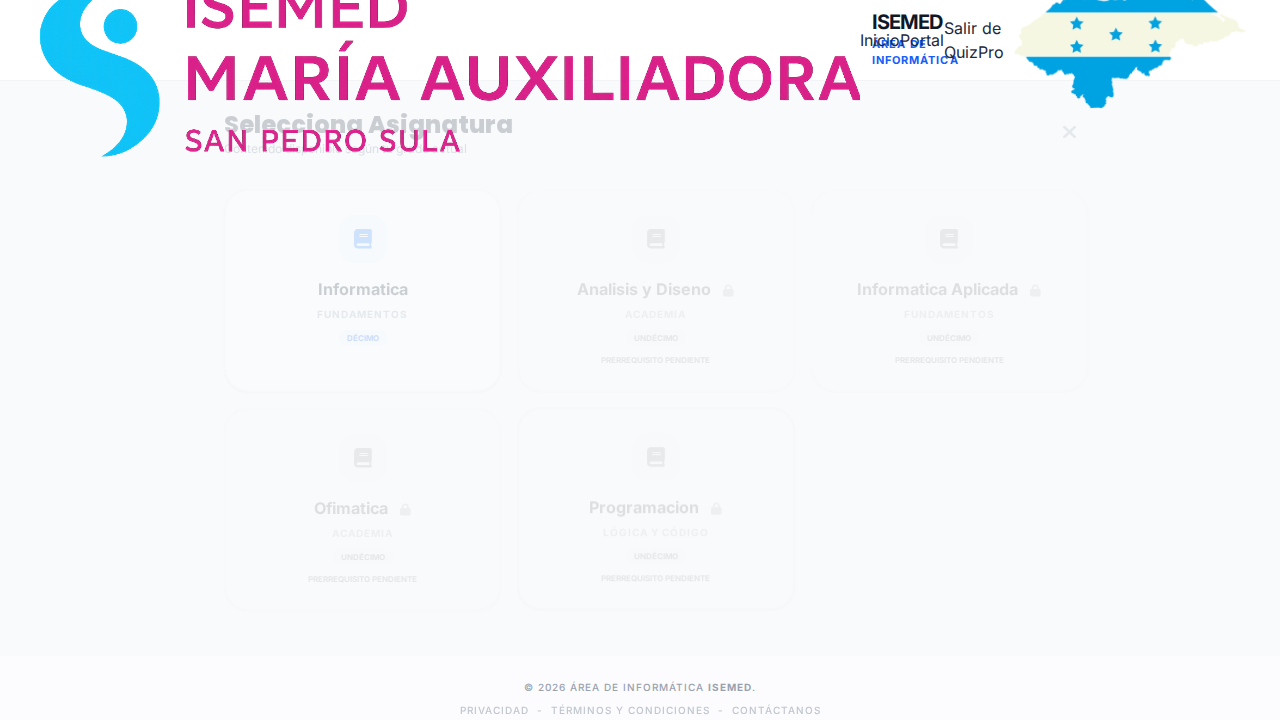
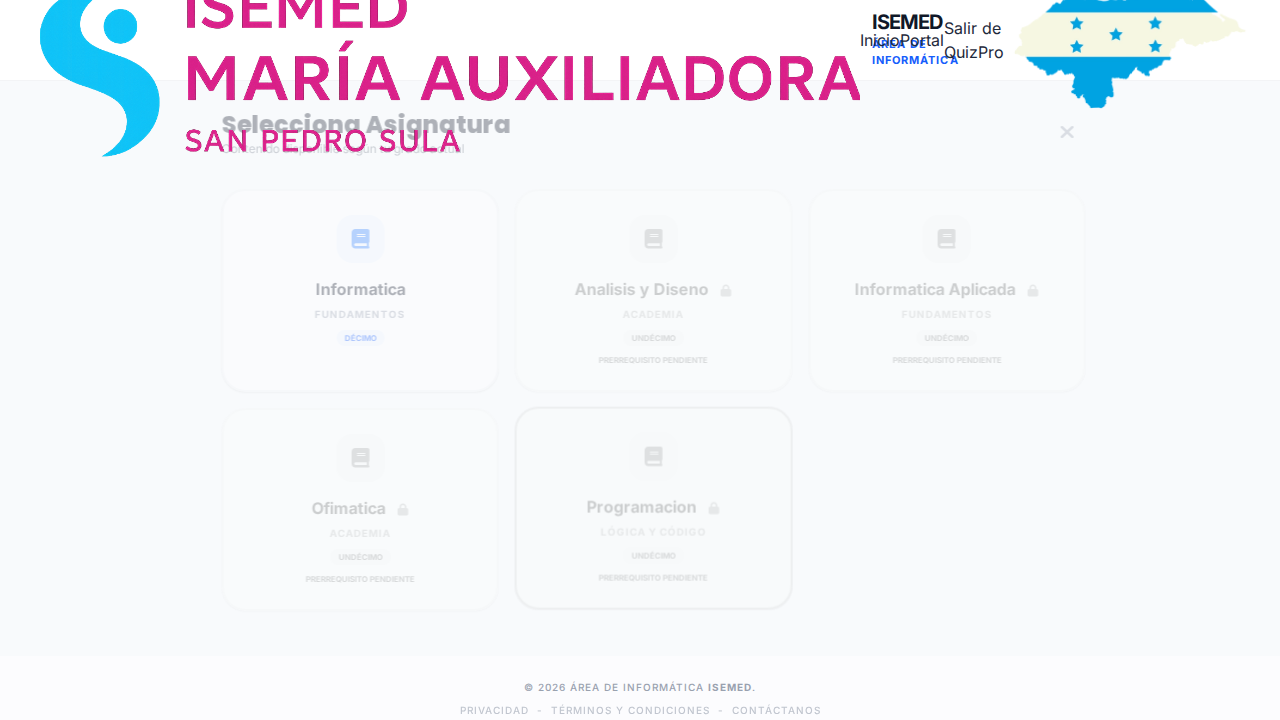
Finalize QuizPro refactor: screen-based nav, strict prerequisites, and Full Space Mode.
- Updated microservice URLs in config.js.
- Fixed "No hay preguntas" bug in QuizPro via normalization and relative path fixes.
- Implemented Full Space Mode in index.html (hiding Hero, News, etc. during games).
- Enforced strict same-subject cross-grade prerequisite matrix.
- Made transcription evaluation case-sensitive for spelling validation.
- Enhanced backend to persist achievement levels and independent high scores.

diff --git a/js/quizpro.js b/js/quizpro.js
@@ -17,7 +17,7 @@ let incorrectAnswers = [];
 const SEEN_QUESTIONS_KEY = 'quizpro_seen_questions';
 const SEEN_LIMIT = 200;
 
-let userGameStats = {}; // Cache de logros para validación de bloqueos
+window.userGameStats = {}; // Cache de logros para validación de bloqueos
 
 window.initQuizPro = function() {
     loadPerformanceTable();
@@ -125,26 +125,43 @@ window.navigateToSubjects = function() {
 };
 
 /**
- * REQ 3.A: Validación Cross-Grade
- * 11vo requiere 10mo aprobado. 12vo requiere 11vo aprobado.
+ * REQ 3.A: Validación Cross-Grade (Matriz Estricta con Fallback)
+ * 11vo requiere 10mo de la MISMA materia. Si no existe en 10mo, requiere 'Informatica' de 10mo.
  */
 function checkCrossGradeLock(subjectName, targetGrade) {
     const targetGradeNum = parseGrade(targetGrade);
-    if (targetGradeNum <= 10) return false; // 10mo siempre abierto
+    if (targetGradeNum <= 10) return false;
 
     const prevGradeNum = targetGradeNum - 1;
+    const statsArray = Object.values(window.userGameStats);
+    const normTarget = normalizeSubject(subjectName);
 
-    // REQ: El alumno debe haber aprobado al menos UNA materia del grado anterior
-    // para desbloquear el nivel actual (Concepto de Promoción de Grado en QuizPro)
-    const statsArray = Object.values(userGameStats);
-
-    const hasAnyApprovalInPrevGrade = statsArray.some(s => {
-        const sg = parseGrade(s.grade);
-        const score = parseFloat(s.maxScore || 0);
-        return sg === prevGradeNum && score >= 70;
+    // 1. Buscar si la materia existe en el grado anterior (en los datos globales)
+    let existsInPrev = false;
+    window.presentationData.forEach(block => {
+        if (parseGrade(block.grade) === prevGradeNum) {
+            if (block.subjects.some(s => normalizeSubject(s.name) === normTarget)) {
+                existsInPrev = true;
+            }
+        }
     });
 
-    return !hasAnyApprovalInPrevGrade;
+    // 2. Aplicar lógica de bloqueo
+    const hasApproval = statsArray.some(s => {
+        const sg = parseGrade(s.grade);
+        const score = parseFloat(s.maxScore || 0);
+        const normS = normalizeSubject(s.subject);
+
+        if (existsInPrev) {
+            // Requiere la misma materia
+            return sg === prevGradeNum && normS === normTarget && score >= 70;
+        } else {
+            // Fallback: Requiere haber pasado 'Informatica' en el grado anterior
+            return sg === prevGradeNum && (normS === 'Informatica' || normS === 'Informatica I') && score >= 70;
+        }
+    });
+
+    return !hasApproval;
 }
 
 window.navigateToLevels = function(subjectName, gradeLabel) {
@@ -155,7 +172,7 @@ window.navigateToLevels = function(subjectName, gradeLabel) {
     const isTeacher = JSON.parse(localStorage.getItem('currentUser'))?.rol === 'Profesor';
 
     // REQ 3.B: Progresión Interna por Niveles
-    const stats = Object.values(userGameStats).filter(s => s.subject === subjectName && s.grade === gradeLabel);
+    const stats = Object.values(window.userGameStats).filter(s => s.subject === subjectName && s.grade === gradeLabel);
     const basicScore = stats.find(s => s.level === 'Básico')?.maxScore || 0;
     const interScore = stats.find(s => s.level === 'Intermedio')?.maxScore || 0;
 
@@ -279,17 +296,19 @@ async function loadQuestions() {
 
     const presentations = [];
     window.presentationData.forEach(gradeBlock => {
-        // Solo cargamos el grado específico seleccionado (para respetar niveles Básico/Intermedio del grado)
-        if (gradeBlock.grade === selectedGrado) {
+        // Normalizamos grado de comparación
+        const blockGradeNum = parseGrade(gradeBlock.grade);
+        const targetGradeNum = parseGrade(selectedGrado);
+
+        if (blockGradeNum === targetGradeNum) {
             gradeBlock.subjects.forEach(subj => {
                 const normSubj = normalizeSubject(subj.name);
-                if (normSubj !== selectedAsignatura) return;
+                if (normSubj !== normalizeSubject(selectedAsignatura)) return;
 
-                // NOTA: No filtramos por window.PARCIAL_ACTUAL aquí para cumplir con la corrección.
                 let topics = subj.topics;
                 // Segmentación de temas por dificultad
-                if (selectedDifficulty === 'basico') topics = topics.slice(0, Math.ceil(topics.length / 3));
-                else if (selectedDifficulty === 'intermedio') topics = topics.slice(Math.floor(topics.length/3), Math.floor(topics.length*2/3));
+                if (selectedDifficulty === 'basico') topics = topics.slice(0, Math.max(1, Math.ceil(topics.length / 3)));
+                else if (selectedDifficulty === 'intermedio') topics = topics.slice(Math.floor(topics.length/3), Math.max(Math.floor(topics.length/3) + 1, Math.floor(topics.length*2/3)));
                 else if (selectedDifficulty === 'avanzado') topics = topics.slice(Math.floor(topics.length*2/3));
 
                 topics.forEach(t => presentations.push(t.file));
@@ -305,7 +324,12 @@ async function loadQuestions() {
 
 async function processPresentation(file) {
     try {
-        const res = await fetch('../' + file);
+        // Corrección de Rutas para carga desde index.html o juegos/quizpro.html
+        const isRoot = !window.location.pathname.includes('/juegos/');
+        const pathPrefix = isRoot ? '' : '../';
+
+        const res = await fetch(pathPrefix + file);
+        if (!res.ok) throw new Error(`HTTP ${res.status}`);
         const text = await res.text();
 
         const quizMatch = text.match(/const (?:quizData|quizQuestions)\s*=\s*(\[[\s\S]*?\]);/);
@@ -537,7 +561,16 @@ function checkAnswer(selected, correct, btn) {
     if(input) input.disabled = true;
 
     const feedback = document.getElementById('feedback-msg');
-    const isCorrect = String(selected).trim().toLowerCase() === String(correct).trim().toLowerCase();
+
+    // REQ 8.4: Evaluación estricta para Transcripción (Ortografía y Puntuación)
+    const q = currentQuizQuestions[currentIndex];
+    let isCorrect = false;
+    if (q && q.type === 'transcription') {
+        // Sensible a mayúsculas, minúsculas y puntuación exacta
+        isCorrect = String(selected).trim() === String(correct).trim();
+    } else {
+        isCorrect = String(selected).trim().toLowerCase() === String(correct).trim().toLowerCase();
+    }
 
     if (isCorrect) {
         if (btn) btn.classList.add('correct', 'border-emerald-500', 'bg-emerald-50', 'text-emerald-700');
@@ -677,7 +710,7 @@ window.loadPerformanceTable = async function() {
     try {
         const res = await fetchApi('USER', 'getGameStats', { userId: user.userId });
         if (res.status === 'success') {
-            userGameStats = res.data || {};
+            window.userGameStats = res.data || {};
             const history = res.allHistory || [];
 
             let approvedCount = 0;
@@ -689,7 +722,7 @@ window.loadPerformanceTable = async function() {
                 }
             });
 
-            container.innerHTML = Object.entries(userGameStats)
+            container.innerHTML = Object.entries(window.userGameStats)
                 .filter(([key]) => key.startsWith('QuizPro_'))
                 .map(([key, s]) => {
                     if (s.maxScore >= 70) approvedCount++;
@@ -710,7 +743,7 @@ window.loadPerformanceTable = async function() {
                     `<span class="px-2 py-1 bg-white border border-orange-200 text-orange-700 text-[10px] font-bold rounded-lg">${tag}</span>`
                 ).join('');
             }
-            if (Object.keys(userGameStats).length > 0) {
+            if (Object.keys(window.userGameStats).length > 0) {
                 document.getElementById('performance-dashboard').classList.remove('hidden');
             }
         }

diff --git a/index.html b/index.html
@@ -74,7 +74,7 @@
 
     <main class="mt-[5rem] md:mt-[6rem] flex-grow">
         <!-- Hero Section Rediseñada (A-72) -->
-        <section class="relative bg-white py-8 md:py-12 overflow-hidden">
+        <section id="hero-section" class="relative bg-white py-8 md:py-12 overflow-hidden">
             <div class="container mx-auto px-6 relative z-10 flex flex-col md:flex-row items-center gap-6">
                 <div class="md:w-3/5 text-center md:text-left space-y-8 animate-fade-in-up">
                     <div class="flex flex-wrap items-center gap-3">
@@ -118,7 +118,7 @@
         </section>
 
         <!-- Sección de Contenido y Actividades Rediseñada -->
-        <section class="py-8 bg-white">
+        <section id="resources-section" class="py-8 bg-white">
             <div class="container mx-auto px-6">
                 <div class="text-center max-w-2xl mx-auto mb-6 space-y-2">
                     <h2 id="main-content-title" class="text-3xl md:text-4xl font-semibold text-gray-900 tracking-tight">
@@ -188,14 +188,16 @@
                     </div>
                 </div>
 
-                <div id="dynamically-loaded-game-container" class="hidden max-w-5xl mx-auto bg-white p-8 md:p-12 rounded-[3rem] shadow-2xl border border-gray-100 mt-12 animate-fade-in-up">
-                    <!-- Juegos inyectados -->
-                </div>
             </div>
         </section>
-        <section class="py-12 bg-gray-100">
+
+        <div id="dynamically-loaded-game-container" class="hidden w-full bg-white animate-fade-in-up">
+            <!-- Juegos inyectados -->
+        </div>
+
+        <section id="access-section" class="py-12 bg-gray-100">
             <div class="container mx-auto px-5 text-center">
-                <div id="access-section" class="max-w-2xl mx-auto bg-white p-8 rounded-3xl shadow-xl border border-gray-100 transition-all duration-300 hover:shadow-2xl">
+                <div class="max-w-2xl mx-auto bg-white p-8 rounded-3xl shadow-xl border border-gray-100 transition-all duration-300 hover:shadow-2xl">
                     <h3 class="text-2xl font-medium text-gray-800 mb-6 flex items-center justify-center">
                         <span class="mr-3">🔐</span> Acceso al Sistema
                     </h3>

diff --git a/js/index-ui.js b/js/index-ui.js
@@ -157,10 +157,16 @@ document.addEventListener('DOMContentLoaded', () => {
     }
 
     async function loadGame(gameId, htmlPath, jsPath, initFnName, title) {
+        // Full Space Mode (Ocultar secciones)
+        const sectionsToHide = ['hero-section', 'news-section', 'resources-section', 'access-section'];
+        sectionsToHide.forEach(id => {
+            const el = document.getElementById(id);
+            if (el) el.classList.add('hidden');
+        });
+
         const mainHeader = document.getElementById('main-header');
         if (mainHeader) mainHeader.classList.add('header-hidden');
-        mainContentSections.classList.add('hidden');
-        mainContentSections.classList.remove('flex');
+
         dynamicallyLoadedGameContainer.classList.remove('hidden');
         mainContentTitle.textContent = title;
 
@@ -192,11 +198,30 @@ document.addEventListener('DOMContentLoaded', () => {
     window.returnToMainContent = function() {
         const mainHeader = document.getElementById('main-header');
         if (mainHeader) mainHeader.classList.remove('header-hidden');
+
         dynamicallyLoadedGameContainer.innerHTML = '';
+        dynamicallyLoadedGameContainer.classList.add('hidden');
+
         ['js/perifericos_juego.js', 'js/webmaster_quiz_juego.js', 'js/destreza_teclado.js', 'js/quizpro.js'].forEach(src => {
             const s = document.querySelector(`script[src="${src}"]`);
             if (s) s.remove();
         });
+
+        // Restaurar secciones
+        const sectionsToRestore = ['hero-section', 'news-section', 'resources-section', 'access-section'];
+        sectionsToRestore.forEach(id => {
+            const el = document.getElementById(id);
+            if (el) {
+                // News section solo si tiene contenido (basado en lógica de loadNews)
+                if (id === 'news-section') {
+                    const container = document.getElementById('news-container');
+                    if (container && container.children.length > 0) el.classList.remove('hidden');
+                } else {
+                    el.classList.remove('hidden');
+                }
+            }
+        });
+
         showMainContentSections();
     };
 

diff --git a/verification/test_matrix.py b/verification/test_matrix.py
@@ -56,7 +56,7 @@ async def run_matrix_test():
 
         # TEST 3: Desbloquear con Stats simulados
         stats_approved = {
-            "QuizPro_Informatica I_Decimo_Basico": {"maxScore": 85, "grade": "10", "subject": "Informática I", "level": "Básico"}
+            "QuizPro_Informatica_Decimo_Basico": {"maxScore": 85, "grade": "10", "subject": "Informatica", "level": "Básico"}
         }
         print("Injecting stats:", stats_approved)
         await page.evaluate(f"window.userGameStats = {json.dumps(stats_approved)}")
